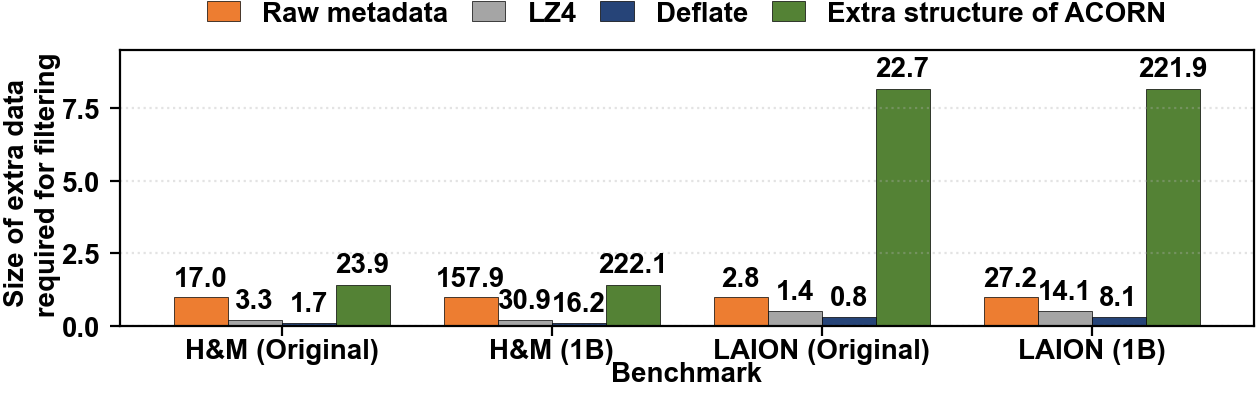
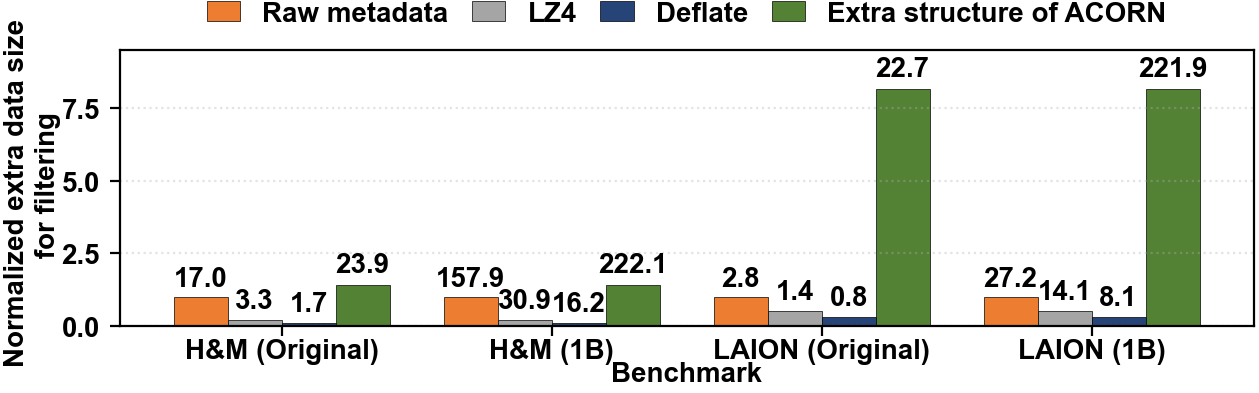
edit the name of y-axis

Changed region(s): [[0.0, 0.0611, 0.062, 0.9466]]

diff --git a/profile/section3_memory_breakdown/plot_memory_breakdown_no_hnsw.py b/profile/section3_memory_breakdown/plot_memory_breakdown_no_hnsw.py
@@ -96,7 +96,7 @@ def render_combined_plot(data: dict, output_path: Path, billion_rows: float) -> 
             ax.text(x, label_y, str(size_text[i, j]), ha="center", va="bottom", fontsize=10, fontweight="bold")
 
     ax.set_ylabel(
-        "Size of extra data \n required for filtering",
+        "Normalized extra data size \n for filtering",
         fontsize=10,
         fontweight="bold",
         fontfamily="Arial",
